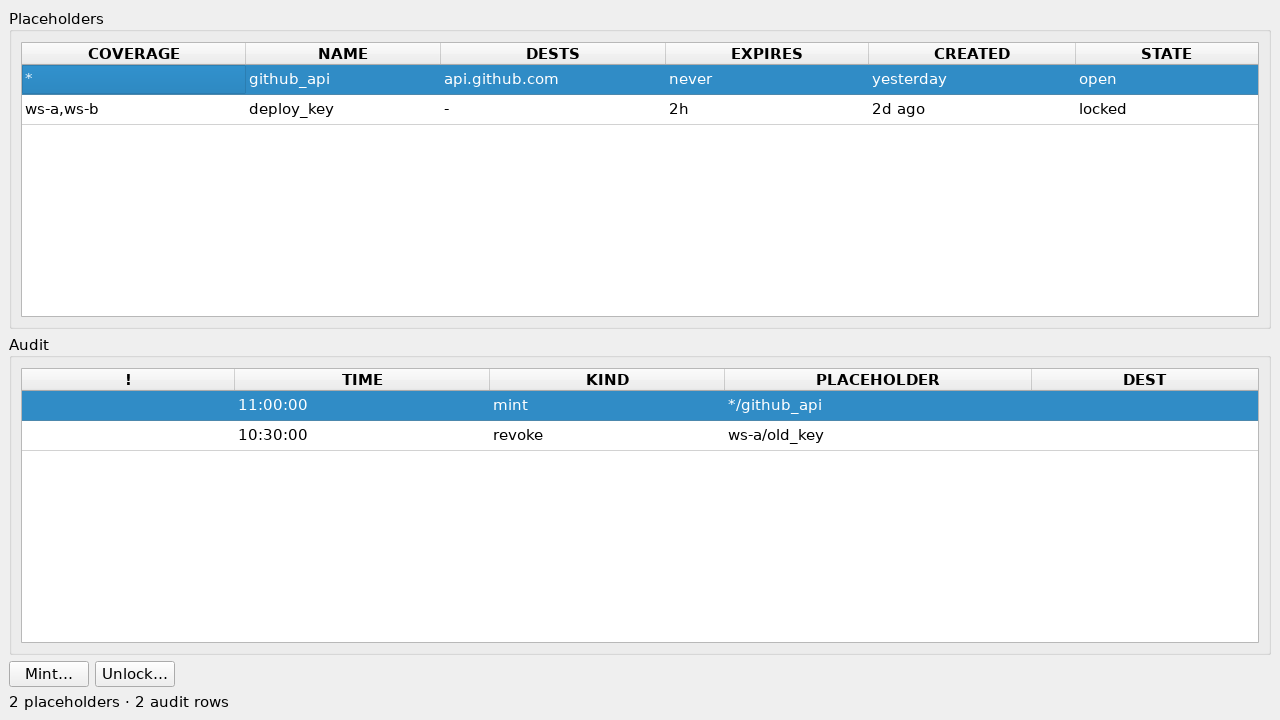
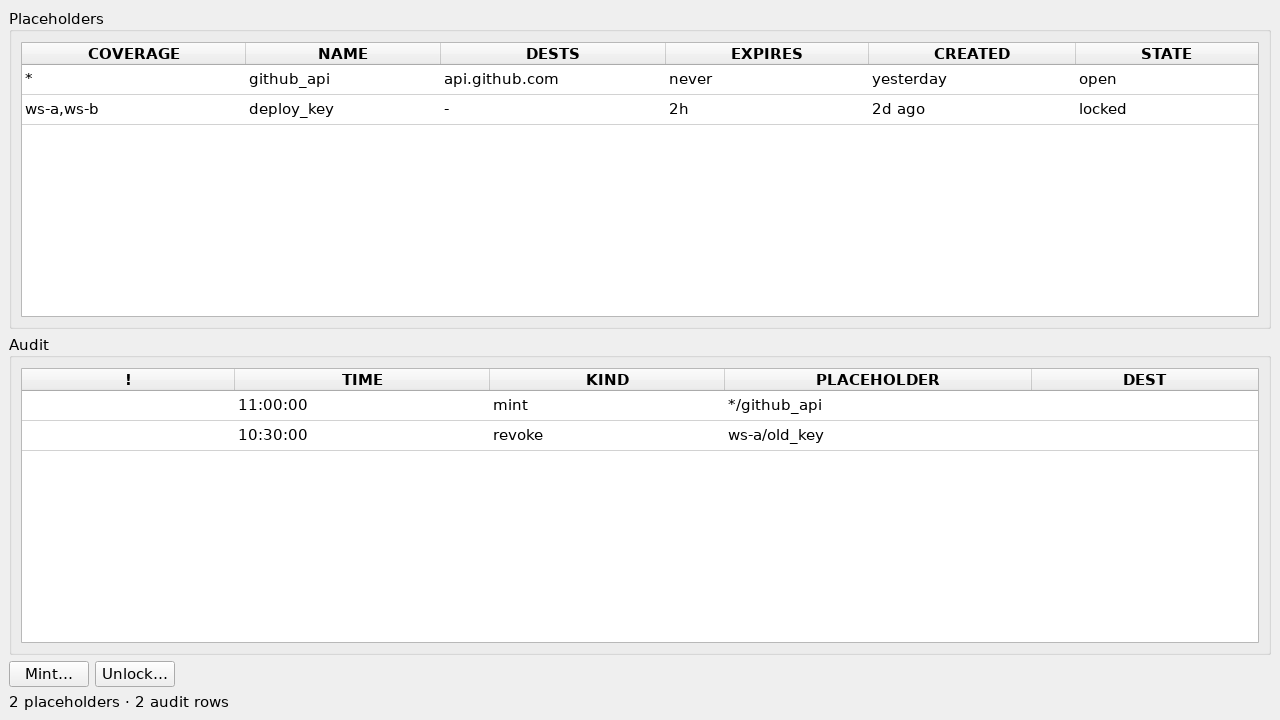
GUI docs: a running row and an unselected Secrets page for the captures (#1172)
The list's fixture held one running workspace, alpha, and that
row carries the unresolved-mount marker and the list's first-row
hold — so the #1160 colors would paint it amber at best and the
selection's own text color in the capture, with no green row
anywhere on the list. The third row, gamma, now runs unmarked
and shows the healthy green beside beta's amber; the count of
rows and the list's alt text stand.

The Secrets page holds each table's first row selected on a
fresh read, and a selected row keeps the highlight's text color:
the open placeholder's green never showed. The capture clears
both tables' selections, the operator's own click on the empty
area below the rows, so `open` reads green beside `locked`
amber.

Both captures re-render from the pre-#1160 GUI; the pixels here
are the fixture's and the selection's alone.

Changed region(s): [[0.0, 0.5194, 1.0, 0.6111], [0.0, 0.0917, 1.0, 0.1528]]

diff --git a/scripts/gui_screens.py b/scripts/gui_screens.py
@@ -198,7 +198,12 @@ class FakePresenter:
 
 def daemon_rows() -> list[dict]:
     """The listing the workspaces screenshot reads: three
-    workspaces, one carrying both markers, newest first."""
+    workspaces, newest first — the first with an unresolved
+    mount, the second with changes waiting for its next start,
+    the third running unmarked, so the list shows the healthy
+    row's green beside the marked rows' amber (#1160, #1172):
+    the first row is the one the list holds selected, and a
+    selected row keeps the highlight's own text color."""
     return [
         {
             "id": "ws-a",
@@ -237,9 +242,14 @@ def daemon_rows() -> list[dict]:
         {
             "id": "ws-c",
             "name": "gamma",
-            "status": "created",
+            "status": "running",
             "image_ref": "msks/debian:13",
             "created_at": utc_stamp(timedelta(days=-1, hours=-6)),
+            "cpus": 2,
+            "mem_mib": 2048,
+            "egress_mode": "static",
+            "mounts_pending": False,
+            "sizes_pending": False,
         },
     ]
 
@@ -278,6 +288,18 @@ def shot(widget, name: str) -> None:
     path = OUT / name
     widget.grab().save(str(path))
     print(f"captured {path.relative_to(ROOT)}")
+
+
+def unselect(*tables) -> None:
+    """Clear each table's selection and current cell (#1172): a
+    fresh page holds its first rows selected, and a selected
+    row keeps the highlight's own text color (#1160) — cleared,
+    the Secrets page's STATE column shows the open row's green
+    beside the locked row's amber. A click on the empty area
+    below the rows is the operator's own gesture."""
+    for table in tables:
+        table.clearSelection()
+        table.selectionModel().clearCurrentIndex()
 
 
 def preset_rows():
@@ -631,6 +653,8 @@ def capture() -> None:
             ],
         },
     )
+    settle(app, rounds=4)
+    unselect(secrets.table, secrets.audit_table)
     settle(app, rounds=4)
     shot(secrets_window, "gui-secrets.png")
     secrets_window.close()
